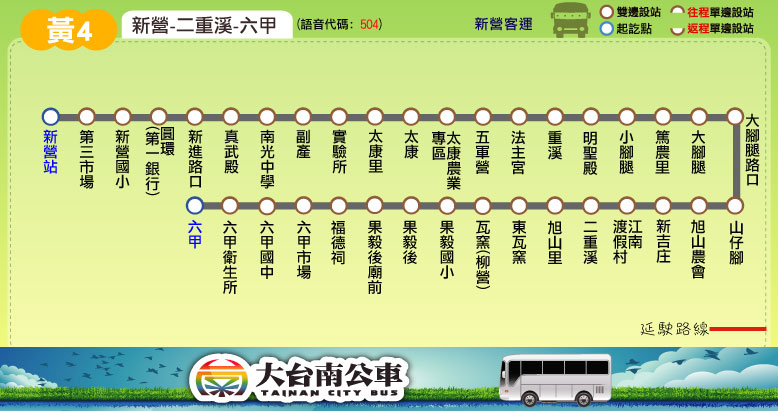
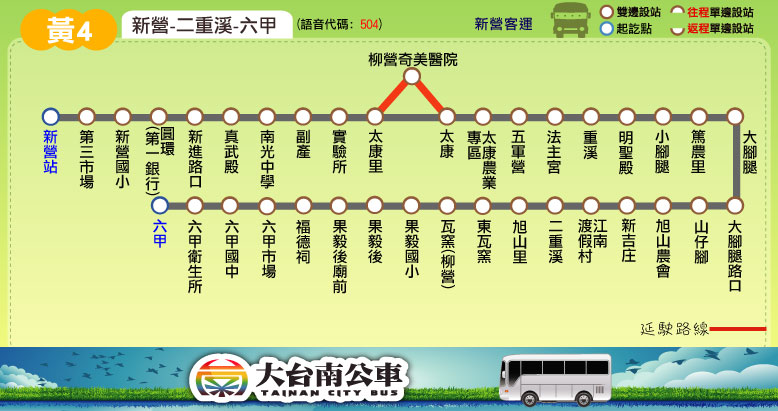
新增站位：黃4(增「柳營奇美醫院」)

Changed region(s): [[0.1851, 0.4672, 0.9563, 0.7299], [0.4627, 0.1168, 0.9254, 0.4672], [0.9563, 0.2628, 0.9871, 0.4672]]

diff --git a/route/fare_and_time/yellow_4.js b/route/fare_and_time/yellow_4.js
@@ -1,8 +1,8 @@
 yellow_4_interval_name = ["新營","副產","太康","五軍營","小腳腿","大腳腿","山仔腳","江南<br />渡假村","二重溪","瓦窯","果毅後<br />廟前","六甲"];
 yellow_4_interval_stop = [ // checked 2016.10.08
 ["新營站","第三市場","新營國小","圓環(第一銀行)","新進路口","真武殿","南光中學"], // 新營
-["副產","實驗所","太康里"], // 副產
-["太康","太康農業專區"], // 太康
+["副產","實驗所"], // 副產
+["太康里","柳營奇美醫院","太康","太康農業專區"], // 太康
 ["五軍營","法主宮"], // 五軍營
 ["重溪","明聖殿","小腳腿","篤農里"], // 小腳腿
 ["大腳腿","大腳腿路口"], // 大腳腿
@@ -30,8 +30,13 @@ yellow_4_fare = [
 // format = [time at the start stop] or
 // [time, other] or
 // [time, start_stop, end_stop, other]
-yellow_4_main_stop_name = ["新營","太康里","明聖殿","小腳腿","山仔腳","二重溪","果毅後<br />廟前","六甲"];
-yellow_4_main_stop_time_consume = [0, 10, 15, 20, 28, 33, 40, 50];
-yellow_4_important_stop = [0, 3, 5, 7]; // 新營, 小腳腿, 二重溪, 六甲
+yellow_4_main_stop_name = ["新營站","柳營奇<br />美醫院","法主宮","明聖殿","小腳腿","山仔腳","二重溪","果毅後<br />廟前","六甲"];
+yellow_4_main_stop_time_consume = [0, 13, 17, 19, 23, 30, 34, 40, 50];
+yellow_4_important_stop = [0, 1, 4, 8]; // 新營站, 柳營奇美醫院, 小腳腿, 六甲
+var Sinying = 0; // 新營站
+var Liouying_Chi_Mei_Hospital = 1; // 柳營奇美醫院
+var Siaojiaotuei = 4; // 小腳腿
+var Lioujia = 8; // 六甲
 yellow_4_time_go = [["06:40"],["08:40"],["10:10"],["12:10"],["14:00"],["16:15"],["18:45"]];
-yellow_4_time_return = [["05:50"],["07:40"],["09:40"],["11:10"],["13:10"],["14:55"],["17:15"]];
+yellow_4_time_return = [["05:50",[Liouying_Chi_Mei_Hospital,[Lioujia-1,-2,Lioujia-2,2]]],["07:40",[[Siaojiaotuei,1,Liouying_Chi_Mei_Hospital,1,Sinying,-2]]],["09:40",[[Siaojiaotuei,1,Liouying_Chi_Mei_Hospital,1,Sinying,-2]]],
+["11:10",[[Lioujia-1,-1,Liouying_Chi_Mei_Hospital,1,Sinying,-2]]],["13:10",[[Lioujia-1,-1,Liouying_Chi_Mei_Hospital,1,Sinying,-2]]],["14:55",[[Liouying_Chi_Mei_Hospital,1,Sinying,-1]]],["17:15",[[Siaojiaotuei,1,Liouying_Chi_Mei_Hospital,1,Sinying,-2]]]];
